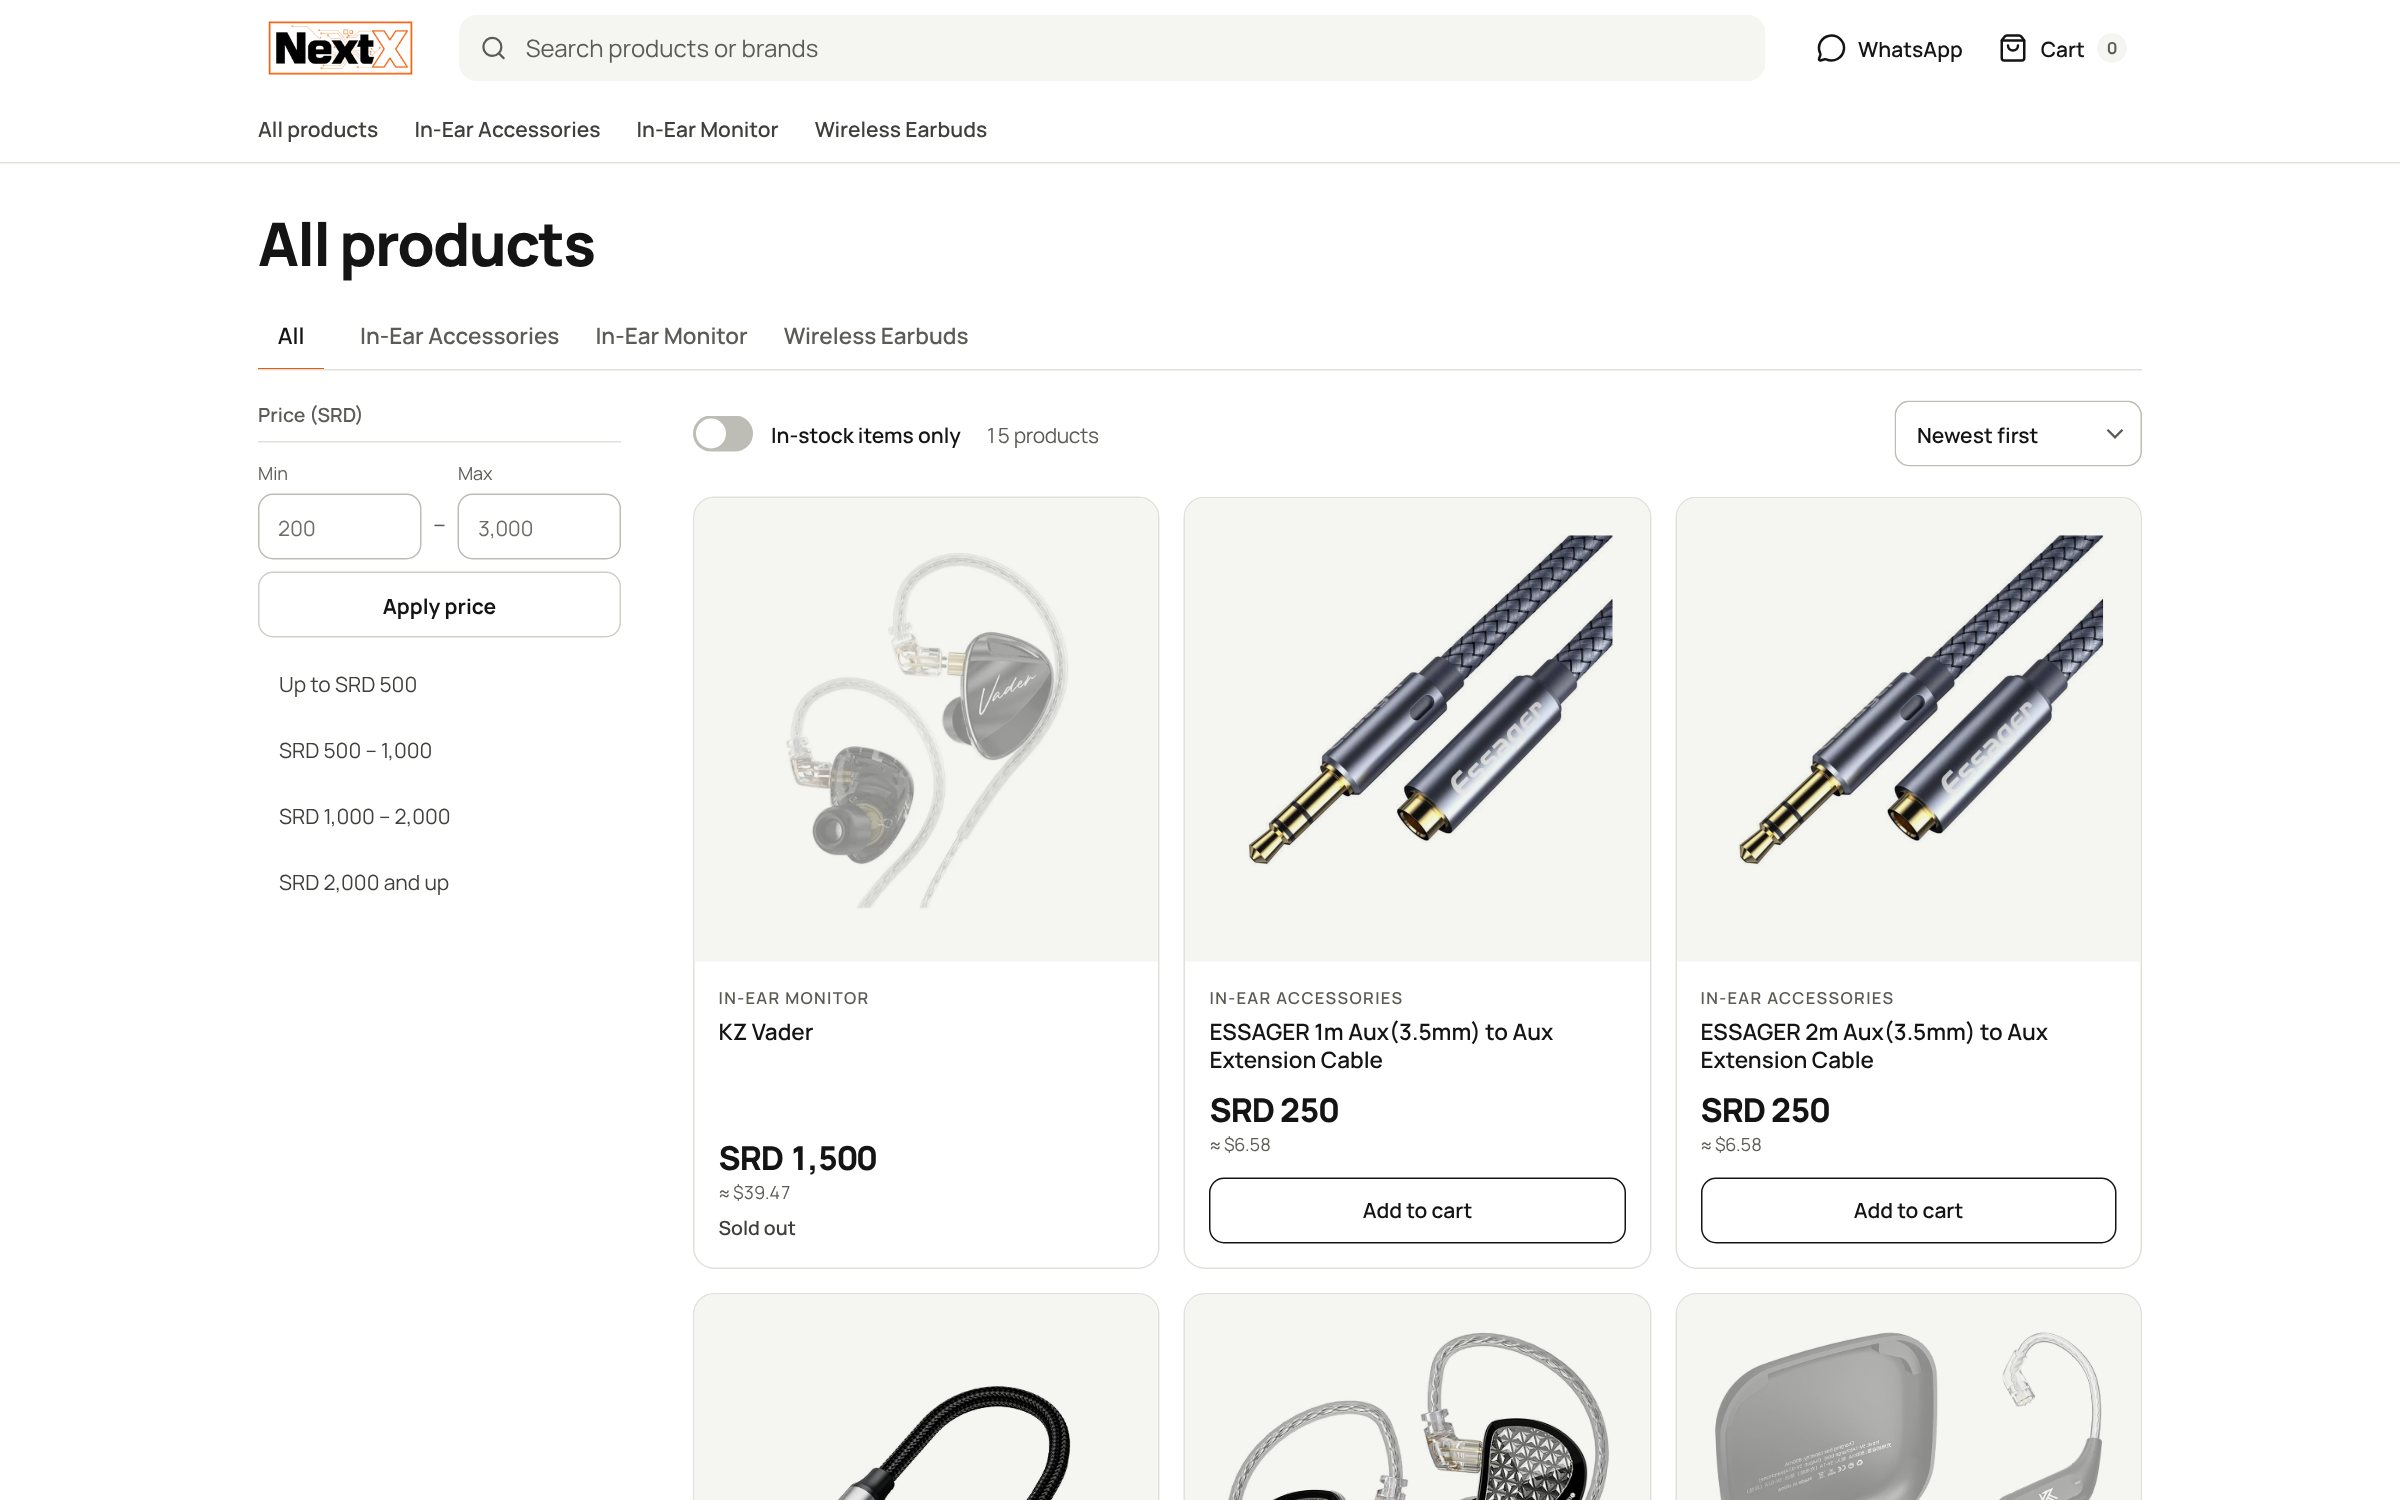
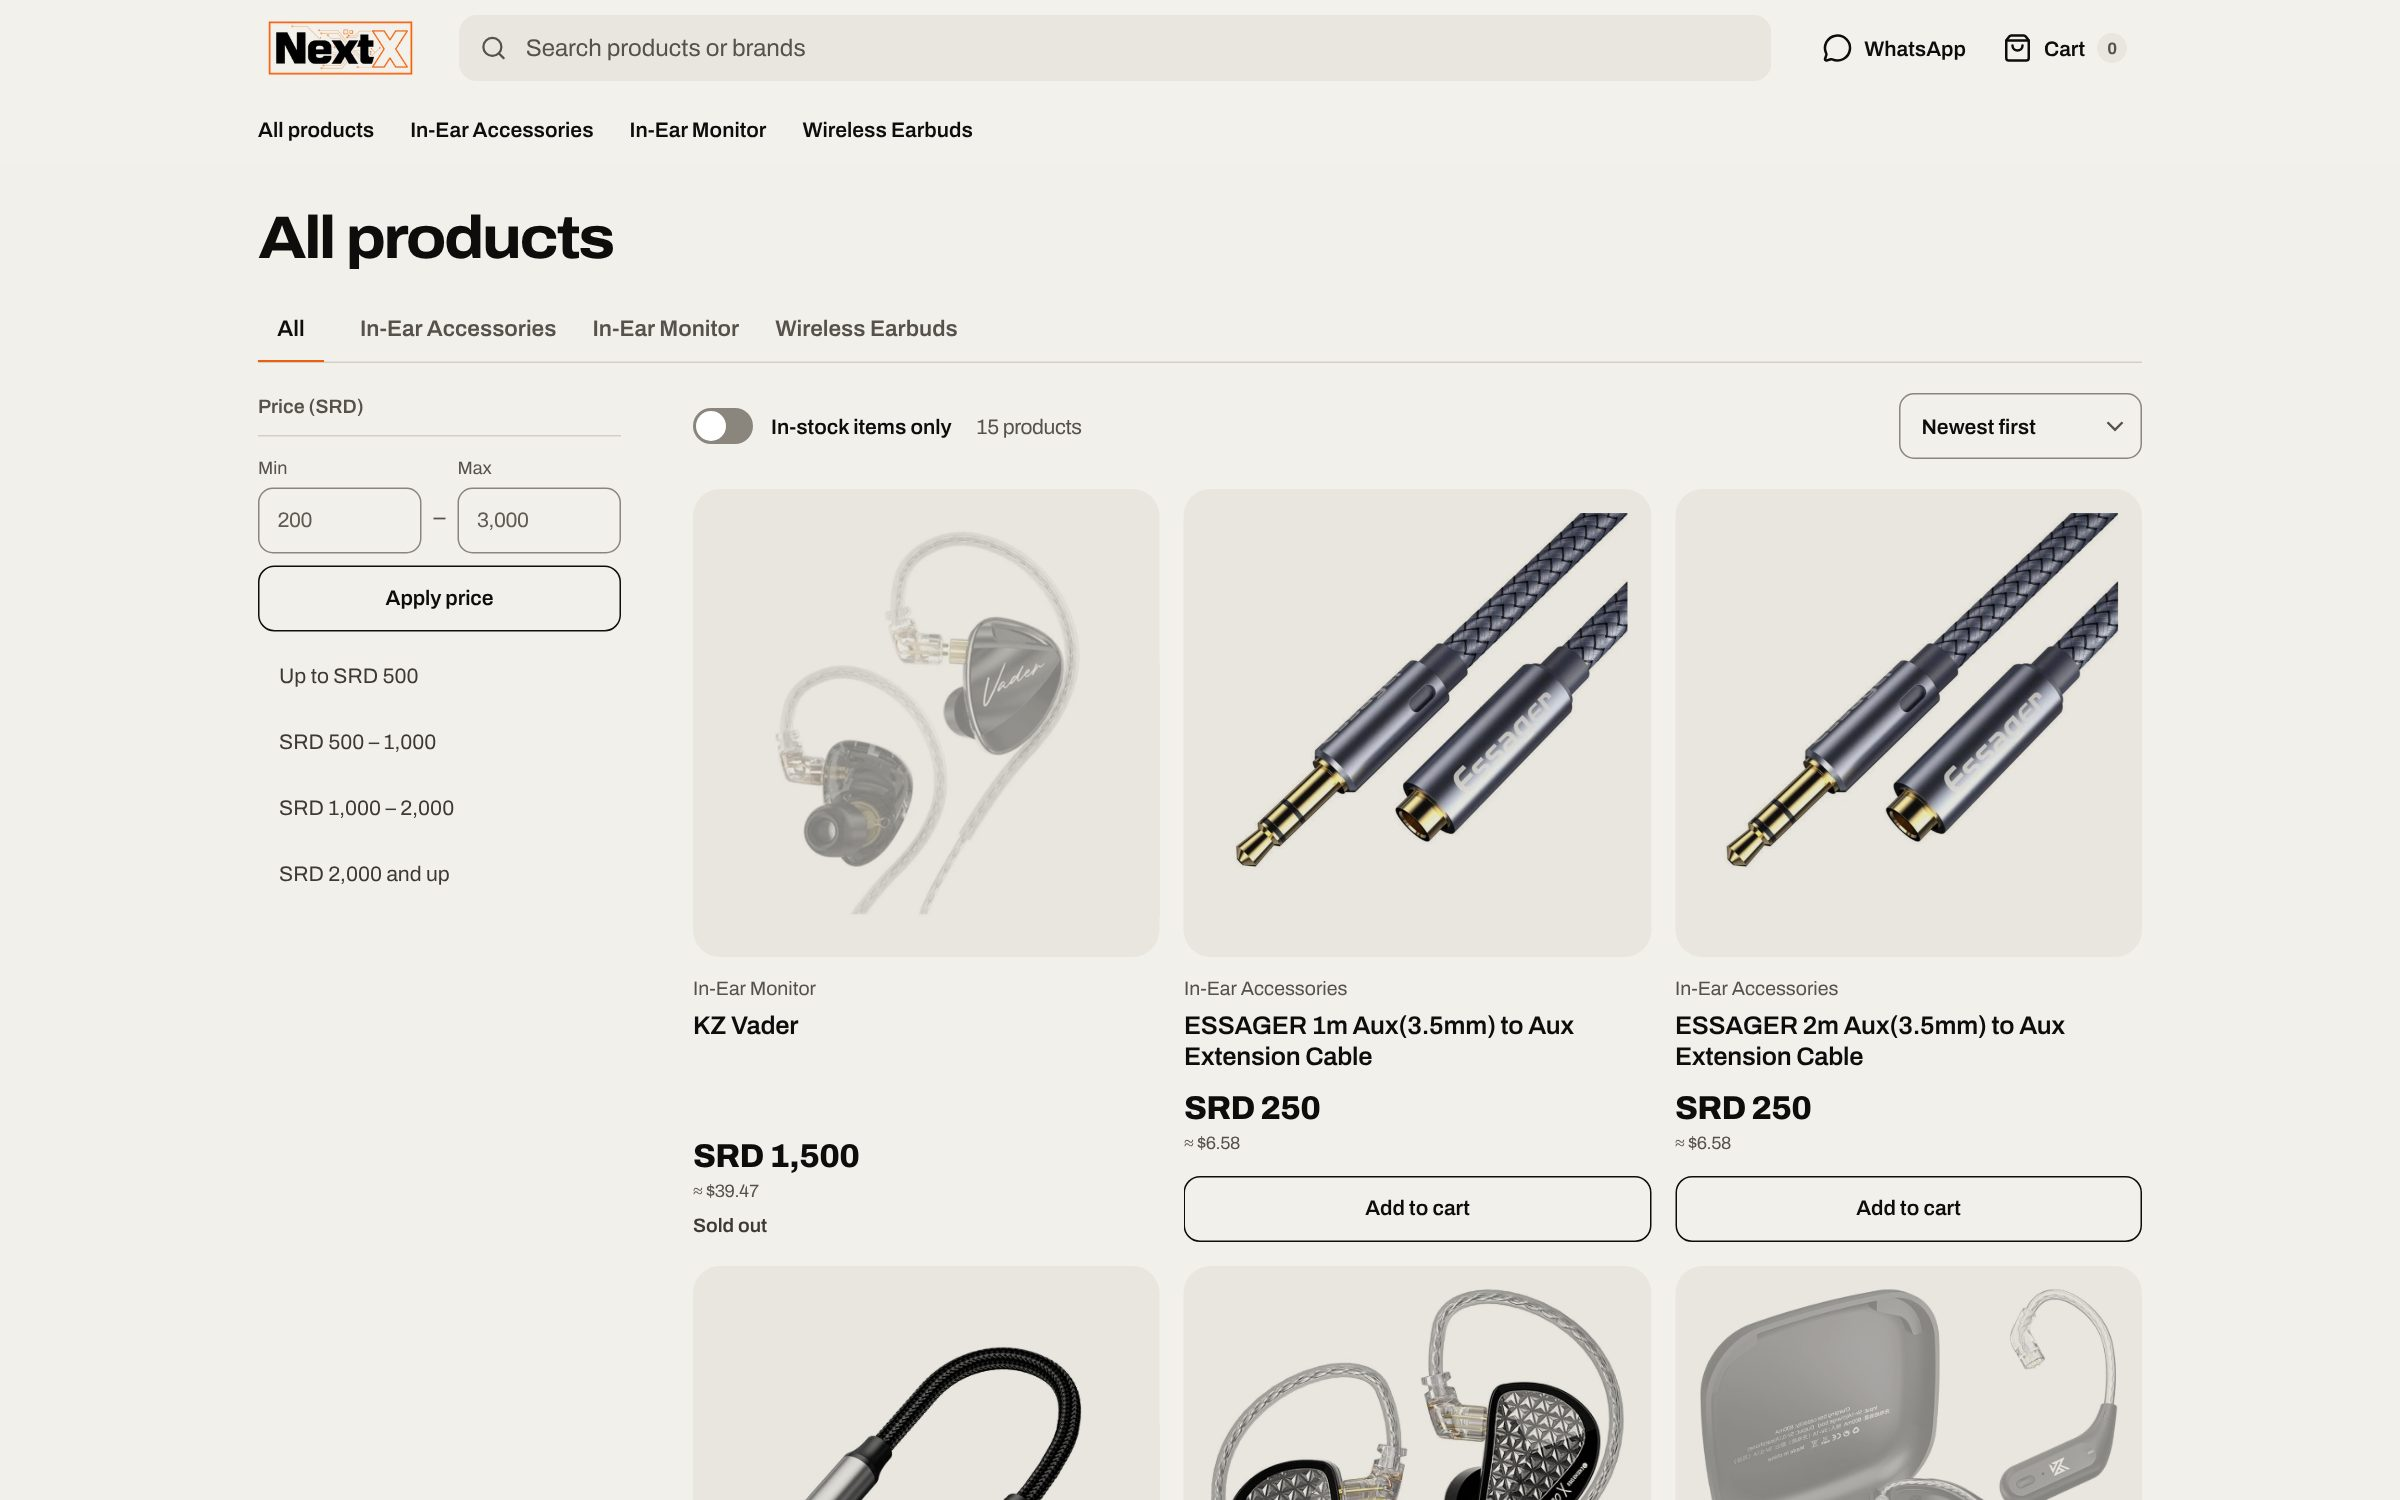
Show the new Shop NextX front end and tighten the site for production
Re-capture the Shop NextX screenshots from the live shop after its
redesign, add the category tiles to the project gallery and bring the
project copy and feature list in line with what the shop does now.

Polish: gallery screenshots get an edge and shadow so paper-coloured
captures read as screens, price tiles in a row keep one height, and the
Conceptlab grid no longer ends rows in a gap.

Production: security headers, no X-Powered-By, AVIF images, a
favicon.ico, an up-to-date manifest and a new social image URL so shared
links pick up the new shop. Remove the unused recharts dependency and
logo files nothing references.

Claude-Session: https://claude.ai/code/session_01MG8jYX58xbAKYXWbNoKNoq

diff --git a/src/content/projects.ts b/src/content/projects.ts
@@ -138,24 +138,32 @@ export const projectCatalog: Project[] = [
     summary:
       'Onze eigen webshop voor in-ear monitors en audio-accessoires. De winkelwagen stuurt de bestelling door naar WhatsApp.',
     intro:
-      'Shop NextX is ons eigen product: een webshop voor in-ear monitors, earbuds en accessoires in Paramaribo. Bezoekers stellen een winkelwagen samen, kiezen een afhaallocatie en datum, en sturen de bestelling met één knop via WhatsApp. Een bestelling is pas definitief nadat prijs en voorraad zijn bevestigd.',
+      'Shop NextX is ons eigen product: een webshop voor in-ear monitors, earbuds en accessoires in Paramaribo. In 2026 kreeg de winkel een nieuwe voorkant in de huisstijl van NextX, met grote productfoto’s en categorieën in kleur. Bezoekers stellen een winkelwagen samen, kiezen een afhaaldatum en sturen de bestelling met één knop via WhatsApp. Een bestelling is pas definitief nadat prijs en voorraad zijn bevestigd.',
     url: 'https://www.shop-nextx.com/',
     host: 'shop-nextx.com',
     stack: 'Next.js',
+    year: 2026,
     features: [
       'Catalogus met categorieën, prijsfilter en sortering',
       'Zoeken op product of merk',
       'Prijzen in SRD met een richtbedrag in USD',
-      'Voorraad per product; uitverkochte artikelen zijn gemarkeerd',
+      'Voorraad per product; uitverkochte artikelen zijn gemarkeerd en weg te filteren',
       'Winkelwagen die op het apparaat bewaard blijft',
       'Bestelling met afhaallocatie en datum, verstuurd via WhatsApp',
+      'Per product een offerte aanvragen',
     ],
     cover: {
       src: '/work/shop-nextx-home.jpg',
-      alt: 'Startpagina van Shop NextX met drie uitgelichte audioproducten',
+      alt: 'Startpagina van Shop NextX met drie uitgelichte audioproducten in een oranje kader',
       ...desktopHd,
     },
     gallery: [
+      {
+        src: '/work/shop-nextx-categories.jpg',
+        alt: 'Drie categorietegels op de startpagina van Shop NextX, in oranje, zwart en zand',
+        caption: 'Categorieën in kleur, met aantal producten en vanafprijs',
+        ...desktopHd,
+      },
       {
         src: '/work/shop-nextx-catalogue.jpg',
         alt: 'Productoverzicht van Shop NextX met prijsfilter en sortering',
@@ -170,7 +178,7 @@ export const projectCatalog: Project[] = [
       },
       {
         src: '/work/shop-nextx-cart.jpg',
-        alt: 'Winkelwagen van Shop NextX met afhaallocatie en verzendknop naar WhatsApp',
+        alt: 'Winkelwagen van Shop NextX met afhaallocatie, afhaaldatum en verzendknop naar WhatsApp',
         caption: 'De winkelwagen zet de bestelling klaar voor WhatsApp',
         ...desktopHd,
       },

diff --git a/src/app/(site)/examples/page.tsx b/src/app/(site)/examples/page.tsx
@@ -26,14 +26,16 @@ export default function ExamplesPage() {
       <div className="wrap grid gap-20 md:gap-28">
         {exampleGroups.map((group) => {
           const items = examples.filter((example) => example.group === group)
+          const isFeatured = (slug: string) => featuredExamples.some((item) => item.slug === slug)
+          // Smaller tiles sit three to a row only when they fill it; otherwise two, so no row ends in a gap.
+          const smallSpan = items.filter((item) => !isFeatured(item.slug)).length % 3 === 0 ? 'lg:col-span-4' : 'lg:col-span-6'
           return (
             <section key={group} aria-labelledby={`group-${group}`}>
               <h2 id={`group-${group}`} className="t-h1 mb-8 md:mb-10">{group}</h2>
               <ul className="grid gap-x-6 gap-y-12 sm:grid-cols-2 lg:grid-cols-12">
                 {items.map((example) => {
-                  const featured = featuredExamples.some((item) => item.slug === example.slug)
                   return (
-                    <li key={example.slug} className={featured ? 'lg:col-span-6' : 'lg:col-span-4'}>
+                    <li key={example.slug} className={isFeatured(example.slug) ? 'lg:col-span-6' : smallSpan}>
                       <Link href={`/examples/${example.slug}`} className="group block h-full">
                         <div className="frame relative aspect-[16/10] overflow-hidden bg-[#262522]">
                           <Image

diff --git a/next.config.ts b/next.config.ts
@@ -1,9 +1,26 @@
 import type { NextConfig } from 'next'
 
+// Sent with every response. There is no script or style Content-Security-Policy:
+// Next.js and the motion library emit inline scripts and styles, so a strict
+// policy would need per-request nonces and make every page dynamic.
+const securityHeaders = [
+  { key: 'X-Content-Type-Options', value: 'nosniff' },
+  { key: 'Referrer-Policy', value: 'strict-origin-when-cross-origin' },
+  { key: 'X-Frame-Options', value: 'SAMEORIGIN' },
+  { key: 'Content-Security-Policy', value: "frame-ancestors 'self'; base-uri 'self'; object-src 'none'" },
+  { key: 'Permissions-Policy', value: 'camera=(), microphone=(), geolocation=(), payment=(), usb=()' },
+  { key: 'Strict-Transport-Security', value: 'max-age=31536000' },
+]
+
 const nextConfig: NextConfig = {
+  poweredByHeader: false,
   images: {
+    formats: ['image/avif', 'image/webp'],
     // The example prototypes use stock photography for their made-up businesses.
     remotePatterns: [{ protocol: 'https', hostname: 'images.unsplash.com' }],
+  },
+  async headers() {
+    return [{ source: '/:path*', headers: securityHeaders }]
   },
 }
 

diff --git a/src/app/globals.css b/src/app/globals.css
@@ -574,7 +574,10 @@ textarea.field {
   display: block;
   width: 100%;
   overflow: hidden;
+  border-radius: 8px;
   background: var(--bg-2);
+  /* Paper-coloured screenshots need an edge to read as a screen on a paper page. */
+  box-shadow: 0 0 0 1px var(--line), 0 2rem 3.5rem -2.25rem rgba(14, 13, 12, 0.45);
   cursor: zoom-in;
 }
 
@@ -731,6 +734,8 @@ textarea.field {
 .nx-price > summary { display: grid; gap: .5rem; padding: 1.5rem; list-style: none; cursor: pointer; }
 .nx-price > summary::-webkit-details-marker { display: none; }
 .nx-price > summary > .t-small { order: 3; }
+/* Two lines reserved, so tiles in a row stay the same height while closed. */
+@media (min-width: 40rem) { .nx-price > summary > .t-small { min-height: 2lh; } }
 .nx-price-more { order: 4; }
 @media (max-width: 39.99rem) {
   .nx-price > summary { grid-template-columns: minmax(0, 1fr) auto; align-items: baseline; gap: .35rem 1rem; padding: 1.15rem 1.25rem; }

diff --git a/src/app/manifest.ts b/src/app/manifest.ts
@@ -5,12 +5,15 @@ export default function manifest(): MetadataRoute.Manifest {
   return {
     name: site.name,
     short_name: site.shortName,
-    description:
-      'Creatieve en digitale studio in Paramaribo voor web, software, fotografie, design en marketing.',
+    description: 'Ontwerpstudio en softwarebouwer in Paramaribo: design, websites en software.',
+    lang: 'nl',
     start_url: '/',
     display: 'standalone',
     background_color: '#0e0d0c',
     theme_color: '#0e0d0c',
-    icons: [{ src: '/apple-touch-icon-v2.png', sizes: '180x180', type: 'image/png' }],
+    icons: [
+      { src: '/nextx-icon-v2.svg', sizes: 'any', type: 'image/svg+xml' },
+      { src: '/apple-touch-icon-v2.png', sizes: '180x180', type: 'image/png' },
+    ],
   }
 }

diff --git a/src/app/layout.tsx b/src/app/layout.tsx
@@ -58,7 +58,7 @@ const description =
   'NextX is een ontwerpstudio en softwarebouwer uit Paramaribo, Suriname. Grafisch ontwerp en branding, websites en webshops, en software op maat, van één studio.'
 
 const socialImage = {
-  url: '/og/nextx-social-v6.png',
+  url: '/og/nextx-social-v7.png',
   width: 1200,
   height: 630,
   alt: 'NextX Agency: design, websites en software uit Paramaribo, Suriname',

diff --git a/src/app/og/nextx-social-v7.png/route.tsx b/src/app/og/nextx-social-v7.png/route.tsx
@@ -1,0 +1,8 @@
+import { ImageResponse } from 'next/og'
+import { renderSocialImage, socialFonts, socialImageSize } from '@/lib/og'
+
+export const runtime = 'nodejs'
+
+export async function GET(request: Request) {
+  return new ImageResponse(renderSocialImage(new URL(request.url).origin), { ...socialImageSize, fonts: await socialFonts() })
+}
